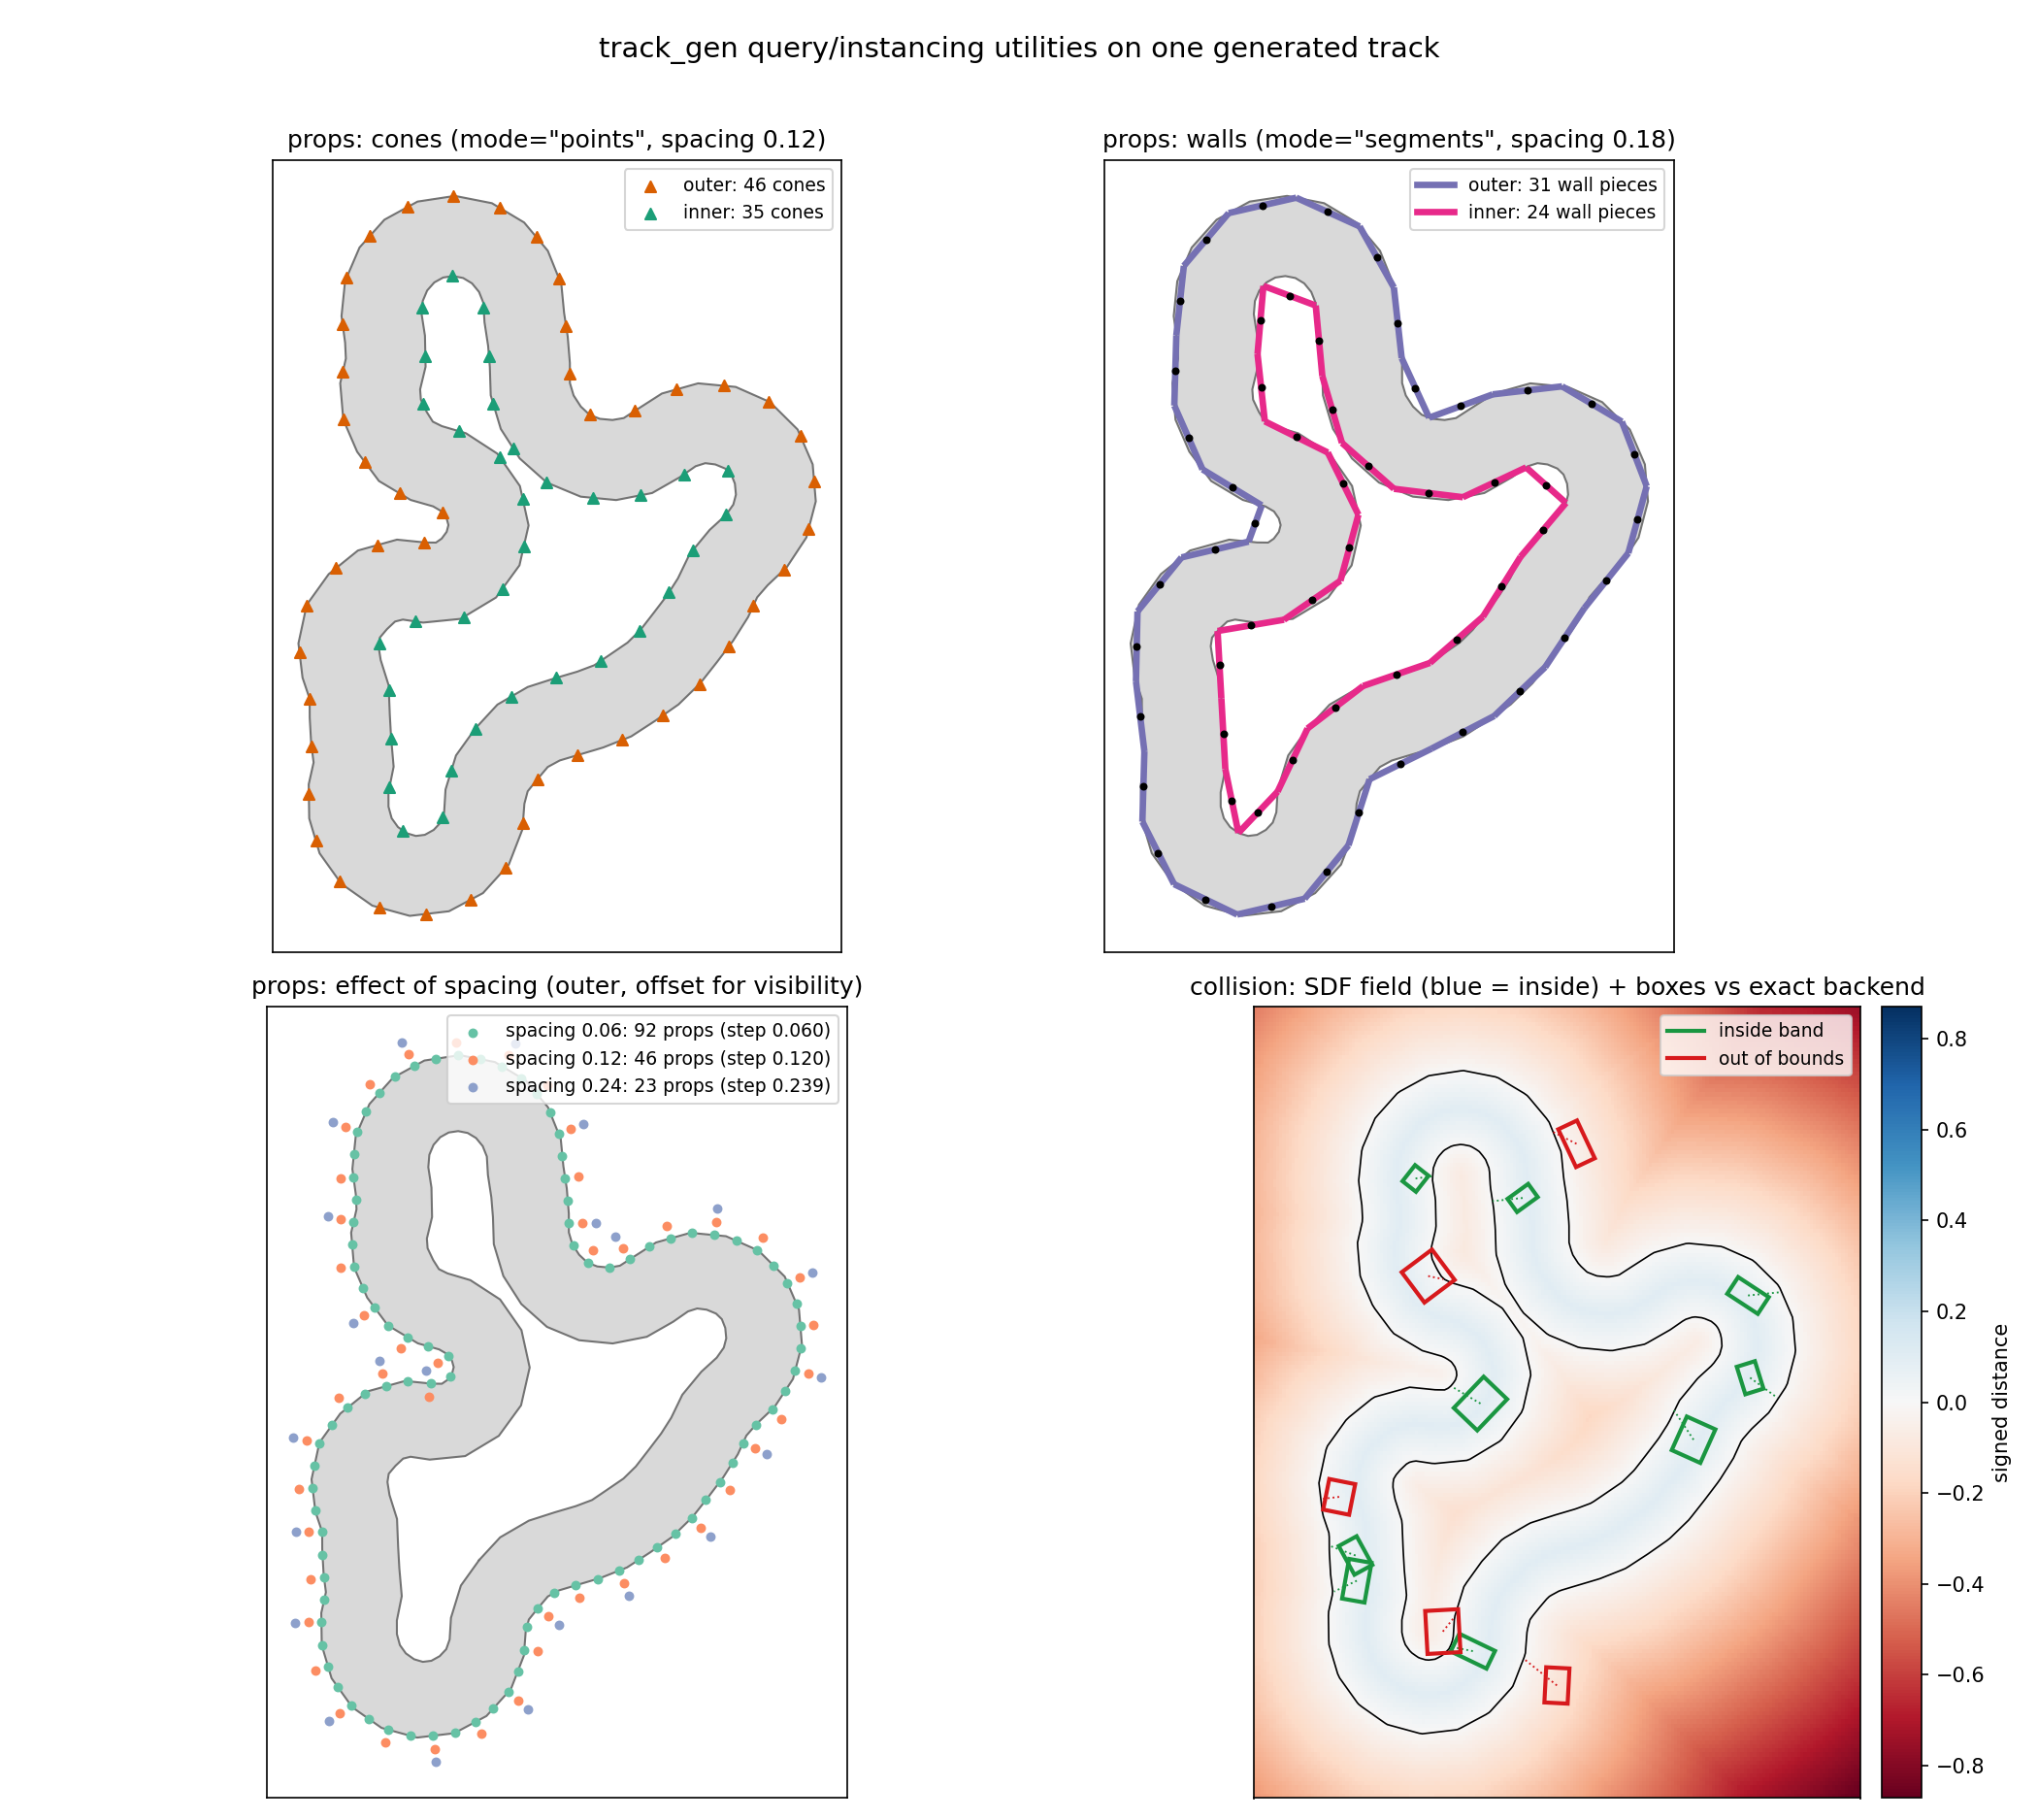
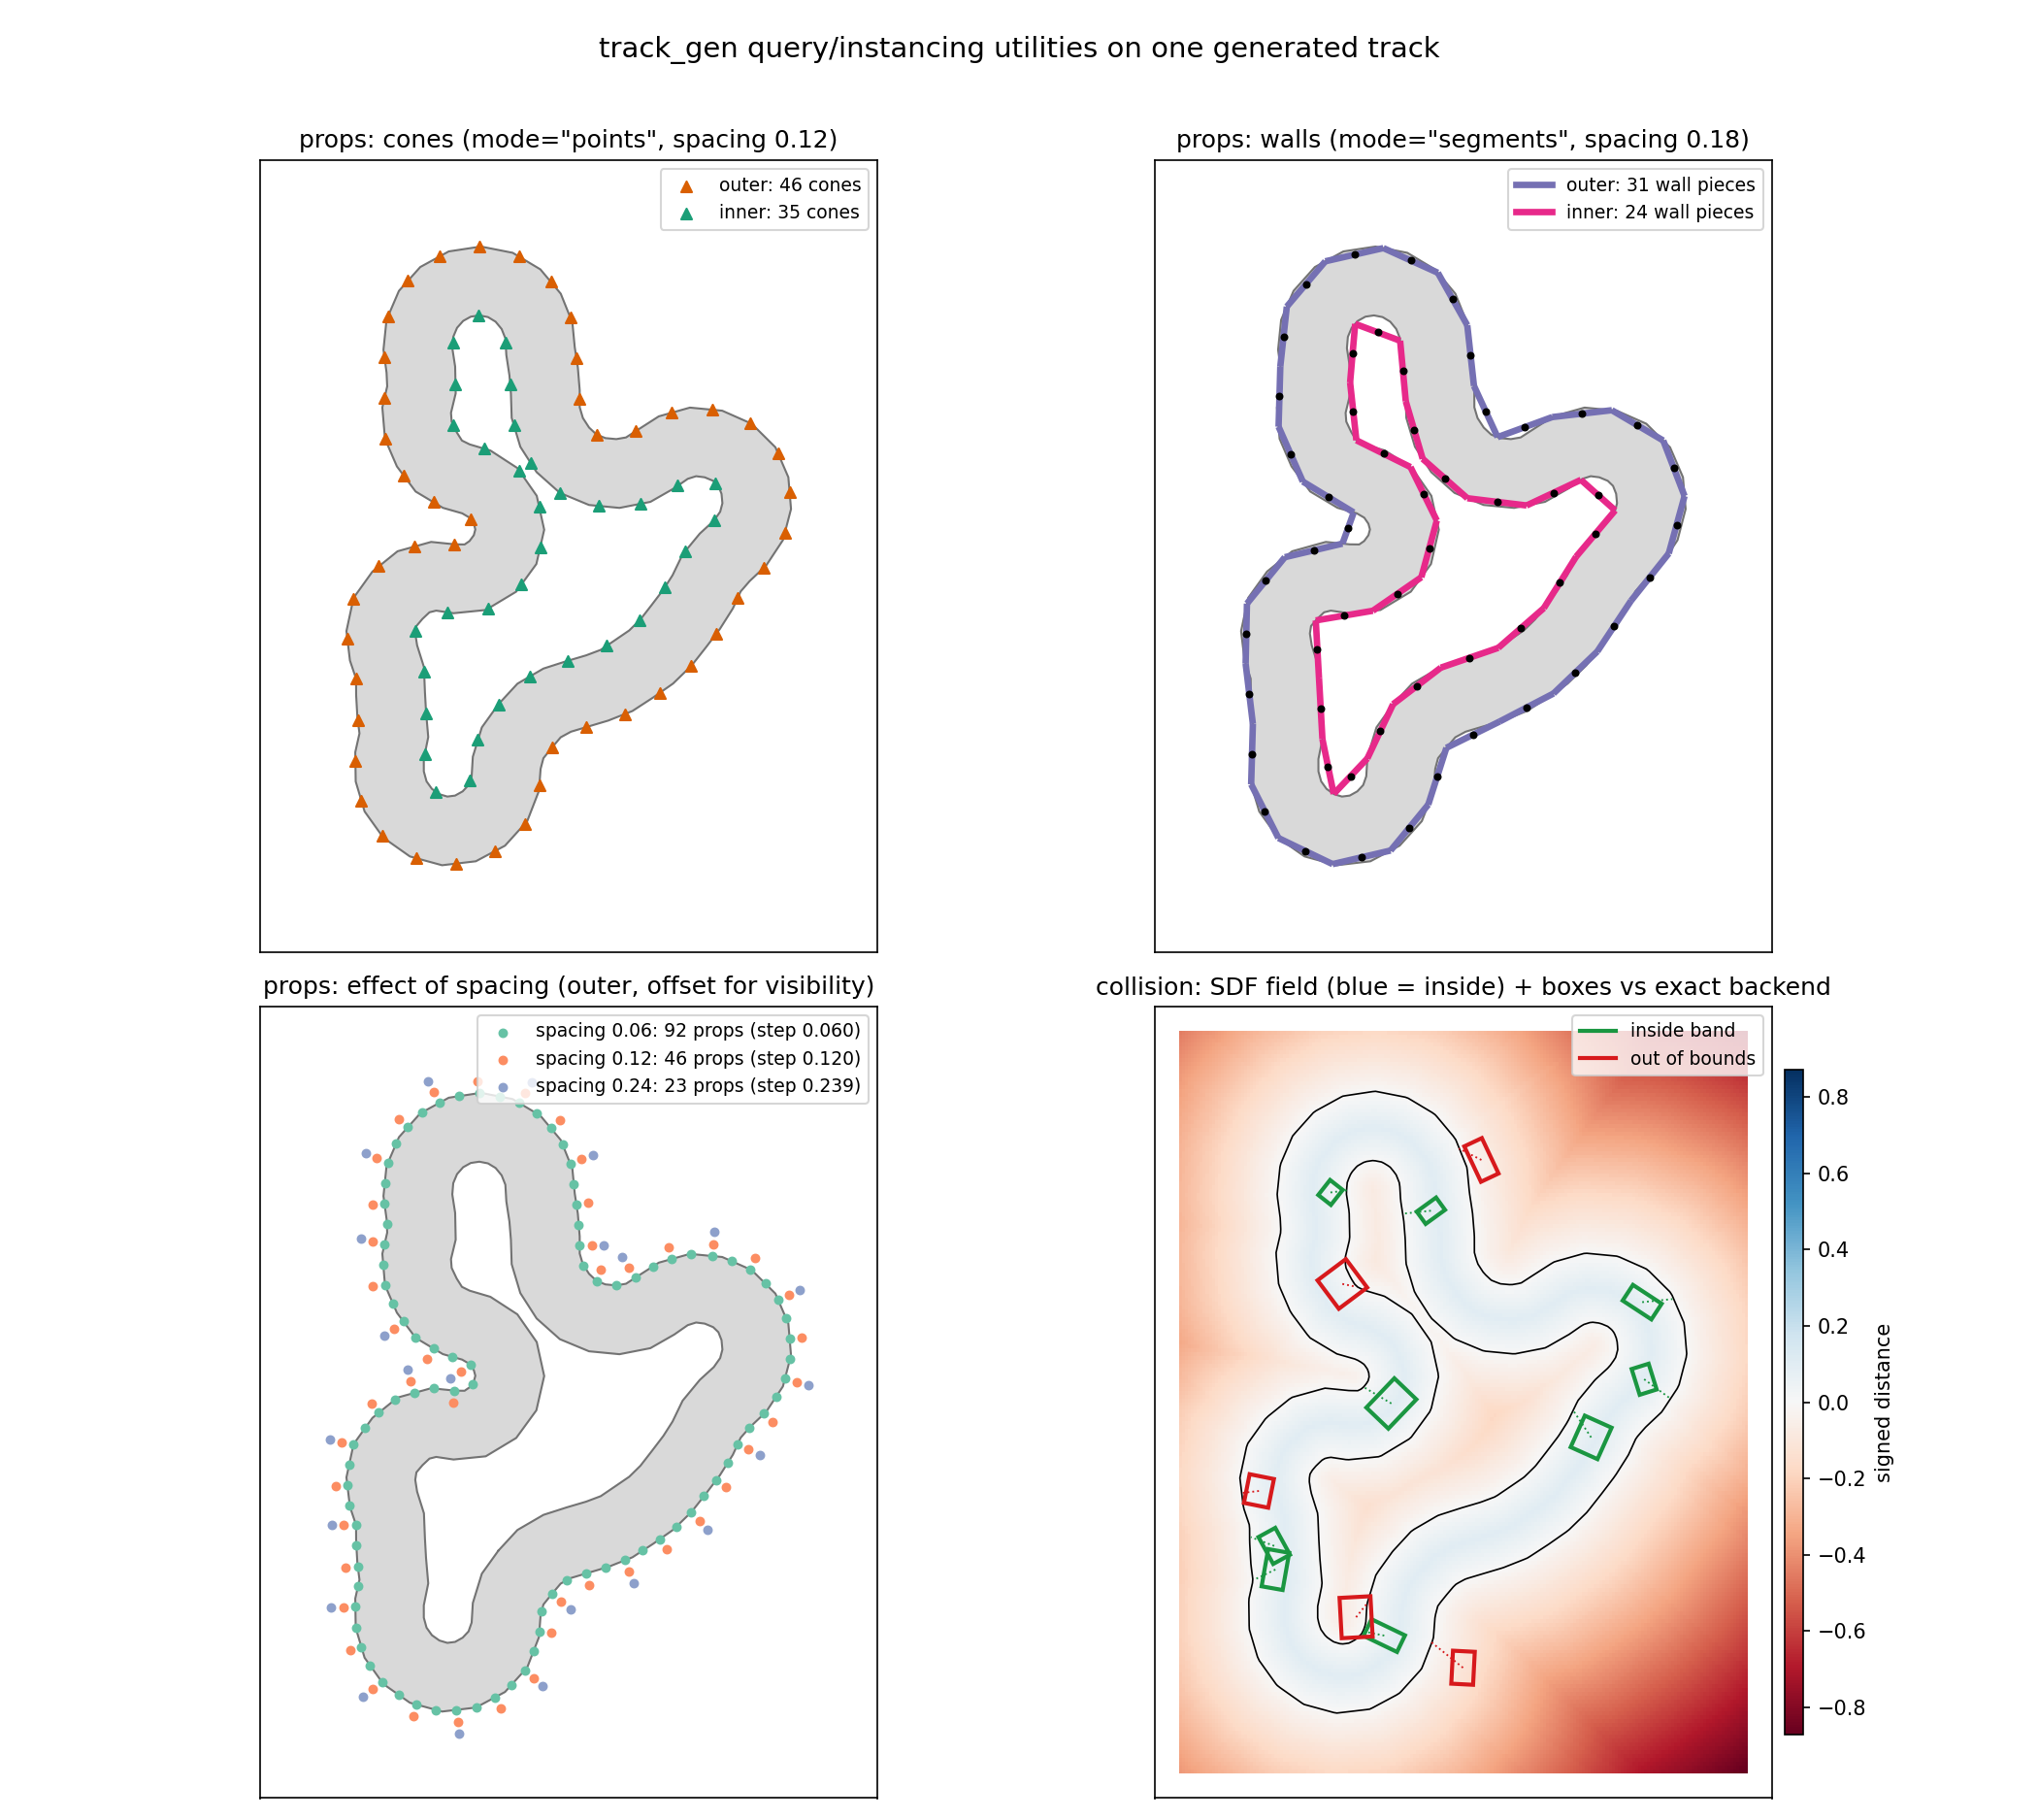
docs: align the four utilities-overview panels on one shared frame
Shared xlim/ylim across panels (track AABB + fixed margin) and an inset
colorbar so the SDF panel keeps the same axes size as the others.

Changed region(s): [[0.5571, 0.0619, 0.9905, 0.9899], [0.1238, 0.0619, 0.4333, 0.9589]]

diff --git a/viz/render_utility_assets.py b/viz/render_utility_assets.py
@@ -73,6 +73,14 @@ def render_utilities_overview(output_dir: Path = Path("docs/assets")) -> Path:
     fig.suptitle("track_gen query/instancing utilities on one generated track",
                  fontsize=14)
 
+    # One shared frame for all four panels so they align despite the SDF
+    # panel's padded grid extent: track AABB plus a fixed margin.
+    lo_lim = outer.min(axis=0)
+    hi_lim = outer.max(axis=0)
+    margin = 0.14 * float((hi_lim - lo_lim).max())
+    xlim = (lo_lim[0] - margin, hi_lim[0] + margin)
+    ylim = (lo_lim[1] - margin, hi_lim[1] + margin)
+
     # (a) points mode: cones on both boundaries.
     ax = axes[0, 0]
     _draw_track(ax, inner, outer)
@@ -162,7 +170,13 @@ def render_utilities_overview(output_dir: Path = Path("docs/assets")) -> Path:
     ax.set_yticks([])
     ax.set_title("collision: SDF field (blue = inside) + boxes vs exact backend")
     ax.legend(loc="upper right", fontsize=9)
-    fig.colorbar(im, ax=ax, fraction=0.04, pad=0.02, label="signed distance")
+    # Inset colorbar: keeps this panel's axes the same size as the others.
+    cax = ax.inset_axes([1.02, 0.08, 0.03, 0.84])
+    fig.colorbar(im, cax=cax, label="signed distance")
+
+    for ax_ in axes.flat:
+        ax_.set_xlim(*xlim)
+        ax_.set_ylim(*ylim)
 
     fig.tight_layout(rect=[0, 0, 1, 0.97])
     output_dir = Path(output_dir)